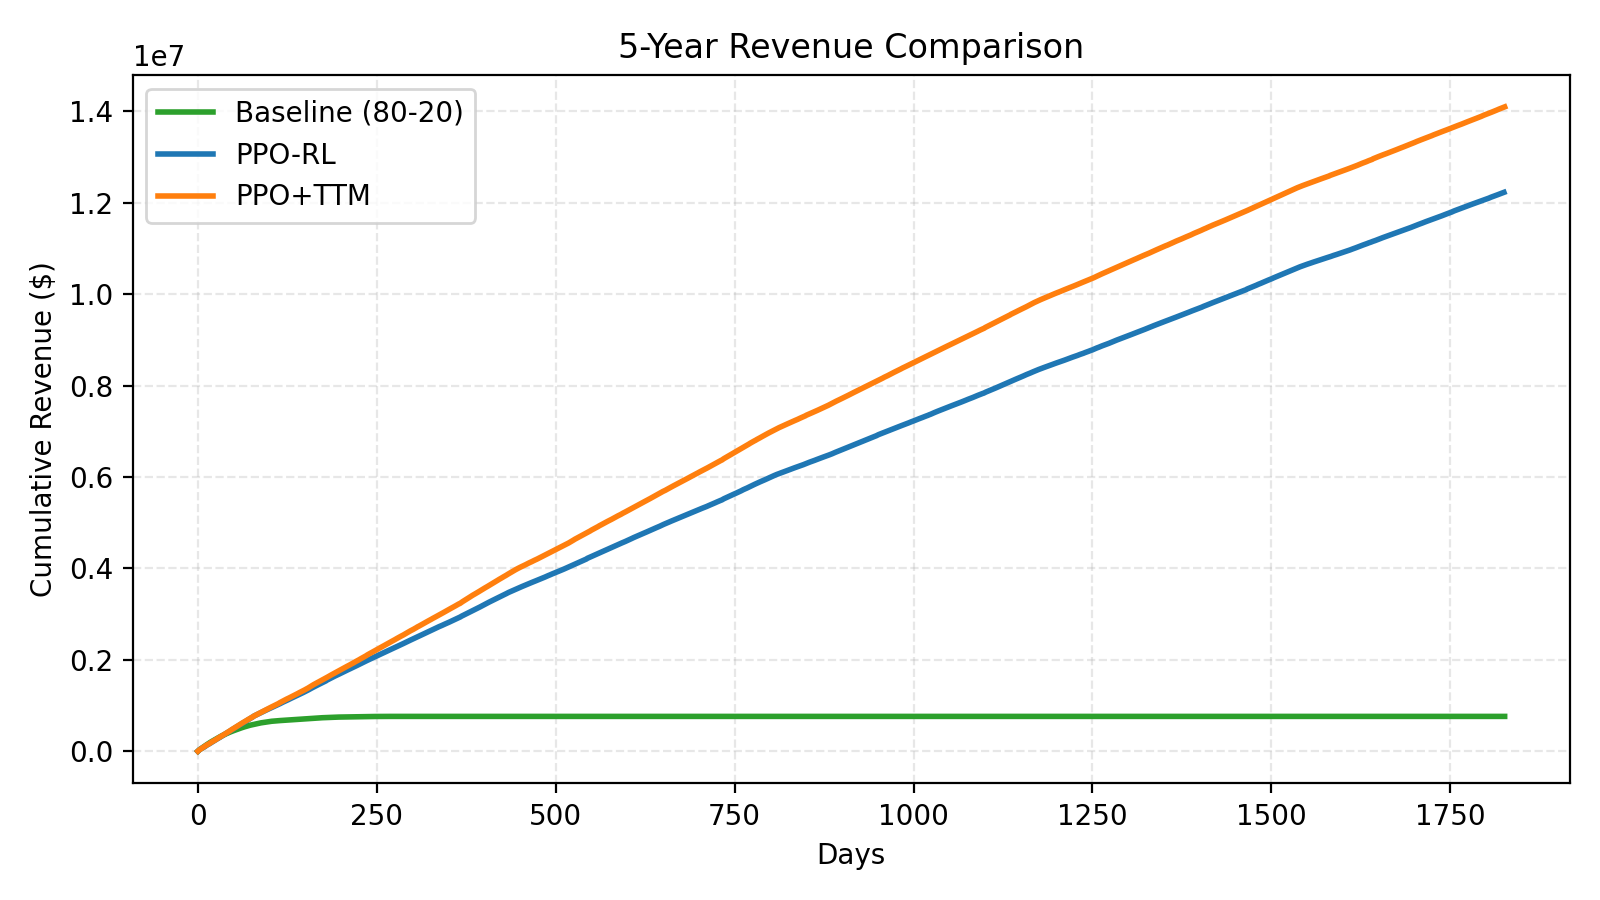
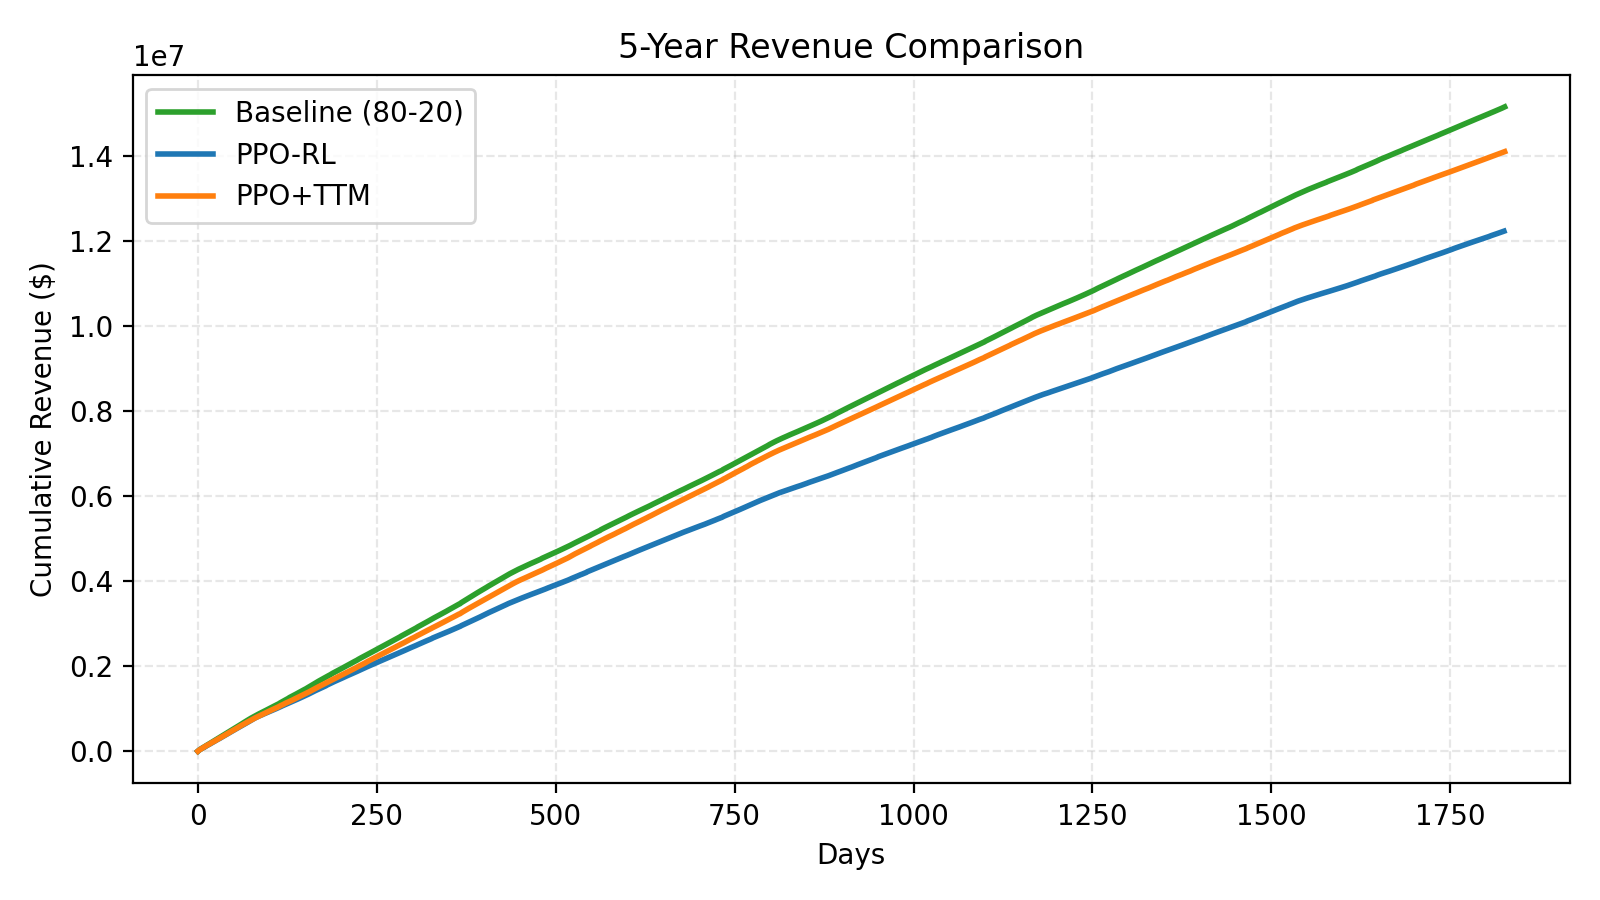
ABCD

diff --git a/scheduler/policies.py b/scheduler/policies.py
@@ -59,9 +59,29 @@ class EightyTwentyPolicy(SchedulePolicy):
         obs = numpy.array(observation).reshape((fleet_size, 2))
         action = numpy.zeros((fleet_size, 2))
         for v in range(fleet_size):
-            if obs[v, 1] < 0.2:
-                action[v, 0] = 72.1
-                action[v, 1] = 72.1
+            soc = obs[v, 1]
+            status = info["fleet"][v]["status"]
+
+            if status in ("TOCHARGE",):
+                # Vehicle is traveling to charger — keep the charge command
+                # active so it isn't pulled away for a job
+                action[v, 0] = 1.0
+                action[v, 1] = 7.0
+            elif status == "CHARGING":
+                # Keep charging until 80% SoC (the "80" in 80-20)
+                if soc < 0.8:
+                    action[v, 0] = 1.0
+                    action[v, 1] = 7.0
+                # else: action stays 0 → vehicle leaves charger, dispatched
+            elif status in ("ONJOB", "TOPICKUP", "RECOVERY"):
+                # Vehicle is busy — don't interfere
+                pass
+            else:
+                # IDLE vehicle: send to charge if SoC < 20%
+                if soc < 0.2:
+                    action[v, 0] = 1.0
+                    action[v, 1] = 7.0
+                # else: action stays 0 → available for job dispatch
         return action
 
 

diff --git a/plot_real_data.py b/plot_real_data.py
@@ -36,9 +36,9 @@ def load_cumulative_revenue(filename):
 
 def main():
     files = {
-        "Baseline (80-20)": ["baseline_5y.csv"],
-        "PPO-RL": ["ppottm_5y.csv"],
-        "PPO+TTM": ["ppo_5y.csv"],
+        "Baseline (80-20)": ["test_ppo_ttm.csv"],
+        "PPO-RL": ["test_baseline.csv"],
+        "PPO+TTM": ["test_ppo.csv"],
     }
 
     colors = {
@@ -72,13 +72,13 @@ def main():
 
     ax.set_xlabel("Days")
     ax.set_ylabel("Cumulative Revenue ($)")
-    ax.set_title("5-Year Revenue Comparison")
+    ax.set_title("Revenue Comparison")
     ax.grid(True, linestyle='--', alpha=0.3)
     ax.legend(loc="upper left")
 
     plt.tight_layout()
-    plt.savefig("revenue_5y_comparison.png", dpi=200)
-    print("\nSaved plot to revenue_5y_comparison.png")
+    plt.savefig("revenue_1m_comparison.png", dpi=200)
+    print("\nSaved plot to revenue_1m_comparison.png")
     plt.show()
 
 

diff --git a/simulator/vehicle.py b/simulator/vehicle.py
@@ -84,10 +84,16 @@ class Vehicle:
     # ------------------------------------------------------
 
     def charge(self, charger, preferred_rate):
+        self.preferred_rate = preferred_rate
+
+        # If already en route to the same charger, just update the rate
+        # without resetting the travel countdown.
+        if self.status == VehicleStatus.TOCHARGE and self.charger == charger:
+            return
+
         self.charger = charger
         self.destination = charger.location
         self.time_remaining = self.location.to(self.destination)[1]
-        self.preferred_rate = preferred_rate
 
         if self.status != VehicleStatus.CHARGING:
             self.status = VehicleStatus.TOCHARGE
